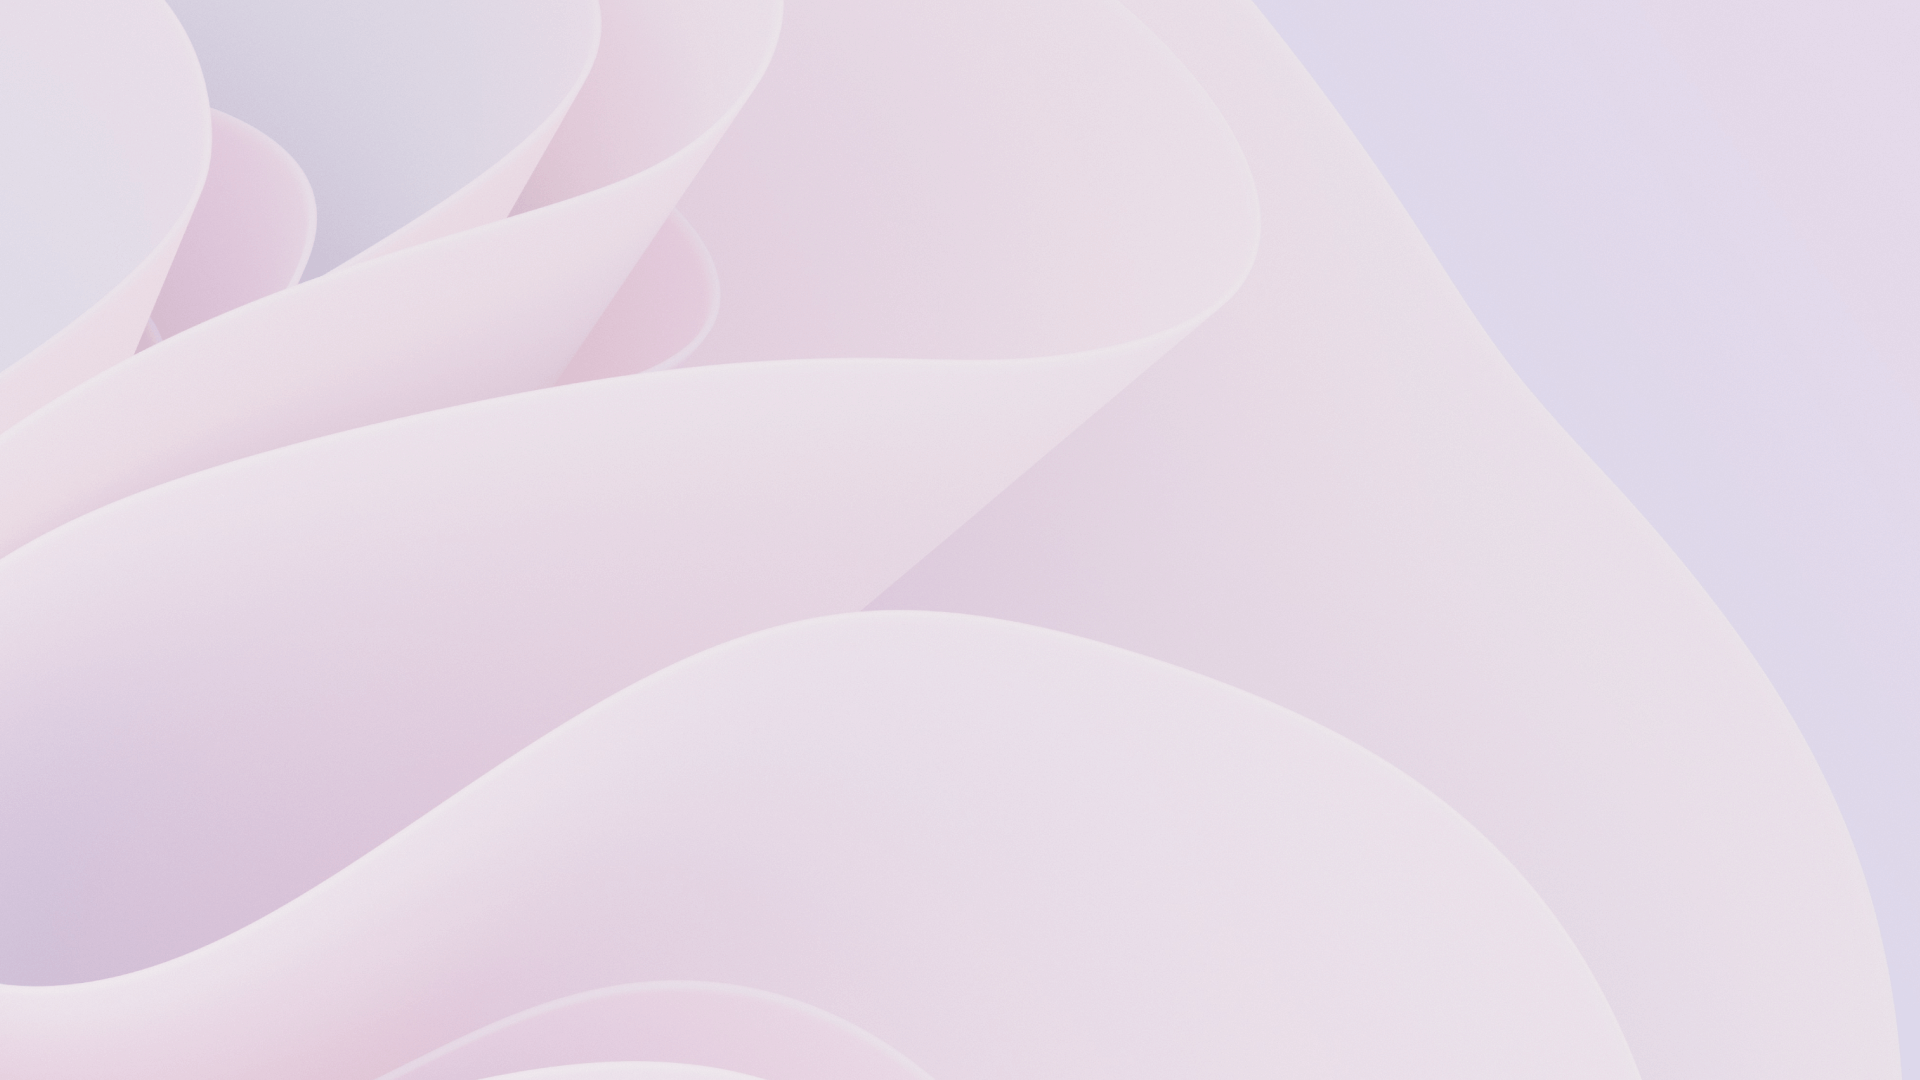
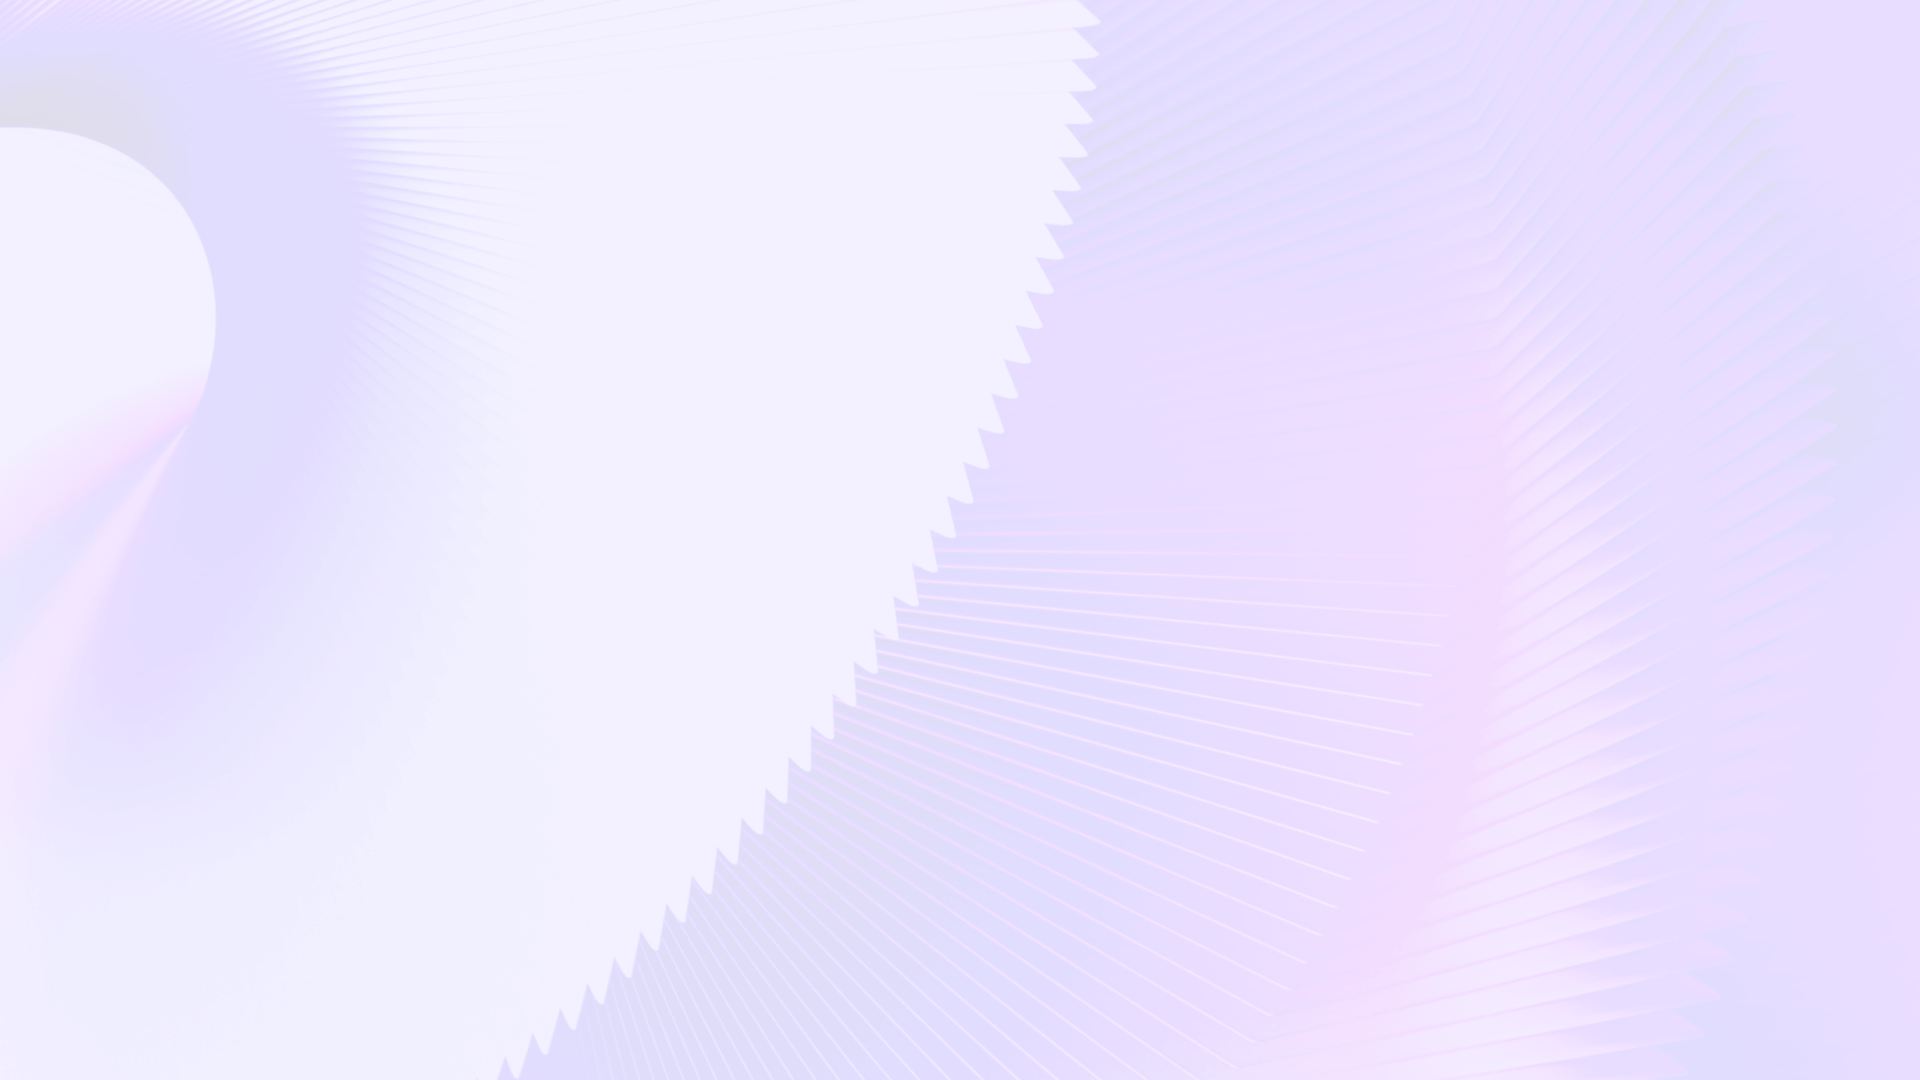
Filters + 3 patterns

diff --git a/patterns.html b/patterns.html
@@ -52,7 +52,14 @@
   </div>
 
   <div class="filter-bar">
-    <p><strong>Layout</strong></p>
+    <div class="filter-set">
+      <p class="large" style="display: inline-block; padding-inline: var(--size-1);">Filter: </p>
+      <button id="filter-author" class="btn-secondary active">Authoring</button>
+      <button id="filter-settings" class="btn-secondary active">Settings</button>
+      <button id="filter-results" class="btn-secondary active">Results</button>
+      <button id="filter-editing" class="btn-secondary active">Editing</button>
+      <button id="filter-agents" class="btn-secondary active">Agents</button>
+    </div>
     <div class="toggle-set">
       <button class="btn-secondary btn-compact">S</button>
       <button class="btn-secondary btn-regular active">M</button>
@@ -61,7 +68,7 @@
   </div>
 
 
-  <div class="patterns-wrapper">
+  <div class="patterns-wrapper show-author show-settings show-results show-editing show-agents">
 
     
 
@@ -157,12 +164,12 @@
 
       <article>
         <div class="content-wrapper">
-        <img src="assets/thumbnail-configure.png">
-        <h4>Configurable Controls</h4>
+        <img src="assets/thumbnail-settingsure.png">
+        <h4>settingsurable Controls</h4>
         <div class="tag-author"></div>
-        <p>Highly abstracted prompt authoring using configured options & controls.</p>
+        <p>Highly abstracted prompt authoring using settingsured options & controls.</p>
         </div>
-        <a href="pattern-configure-controls.html"><button class="btn-secondary">View Pattern <i data-feather="arrow-right"></i></button></a>
+        <a href="pattern-settingsure-controls.html"><button class="btn-secondary">View Pattern <i data-feather="arrow-right"></i></button></a>
       </article>
 
       <article>
@@ -197,10 +204,10 @@
 
       <article>
         <div class="content-wrapper">
-        <img src="assets/thumbnail-placeholder.png">
+        <img src="assets/thumbnail-prompt-placeholders.png">
         <h4>Prompt Placeholder Values</h4>
         <div class="tag-author"></div>
-        <p>?????????.</p>
+        <p>Pre defined content slots or conditions or for prompt values.</p>
         </div>
         <a href="pattern-prompt-placeholders.html"><button class="btn-secondary">View Pattern <i data-feather="arrow-right"></i></button></a>
       </article>
@@ -257,12 +264,12 @@
 
       <article>
         <div class="content-wrapper">
-        <img src="assets/thumbnail-placeholder.png">
+        <img src="assets/thumbnail-result-variations.png">
         <h4>Result Variations</h4>
         <div class="tag-results"></div>
-        <p>?????????.</p>
+        <p>Providing users multiple results for a single prompt.</p>
         </div>
-        <a href="pattern-prompt-placeholders.html"><button class="btn-secondary">View Pattern <i data-feather="arrow-right"></i></button></a>
+        <a href="pattern-result-variations.html"><button class="btn-secondary">View Pattern <i data-feather="arrow-right"></i></button></a>
       </article>
 
       <article>
@@ -287,12 +294,12 @@
 
       <article>
         <div class="content-wrapper">
-        <img src="assets/thumbnail-placeholder.png">
-        <h4>Result Preview Render</h4>
+        <img src="assets/thumbnail-result-rendered-preview.png">
+        <h4>Result Rendered Preview</h4>
         <div class="tag-author"></div>
-        <p>?????????.</p>
+        <p>A live preview of generated content, image or code.</p>
         </div>
-        <a href="pattern-prompt-placeholders.html"><button class="btn-secondary">View Pattern <i data-feather="arrow-right"></i></button></a>
+        <a href="pattern-result-rendered-preview.html"><button class="btn-secondary">View Pattern <i data-feather="arrow-right"></i></button></a>
       </article>
 
       <article class="coming">
@@ -400,6 +407,44 @@
       $(".patterns-wrapper").addClass("large").removeClass("compact");
       });
     });
+
+
+
+    $(document).ready(function (){
+      $("#filter-author").click(function(){
+      $(".patterns-wrapper").toggleClass("show-author");
+      $(this).toggleClass("active");
+      });
+    });
+
+    $(document).ready(function (){
+      $("#filter-settings").click(function(){
+      $(".patterns-wrapper").toggleClass("show-settings");
+      $(this).toggleClass("active");
+      });
+    });
+
+    $(document).ready(function (){
+      $("#filter-results").click(function(){
+      $(".patterns-wrapper").toggleClass("show-results");
+      $(this).toggleClass("active");
+      });
+    });
+
+    $(document).ready(function (){
+      $("#filter-editing").click(function(){
+      $(".patterns-wrapper").toggleClass("show-editing");
+      $(this).toggleClass("active");
+      });
+    });
+
+    $(document).ready(function (){
+      $("#filter-agents").click(function(){
+      $(".patterns-wrapper").toggleClass("show-agents");
+      $(this).toggleClass("active");
+      });
+    });
+
 
 </script>
 

diff --git a/pattern-result-rendered-preview.html b/pattern-result-rendered-preview.html
@@ -6,7 +6,7 @@
   <meta name="keywords" content="HTML,CSS,XML,JavaScript">
   <meta name="author" content="Luke Bennis">
   <meta name="viewport" content="width=device-width, initial-scale=1.0">
-  <title>AI UX Pattern - AI Prompt Placeholder Values</title>
+  <title>AI UX Pattern - AI Result Rendered Preview</title>
 
   <link rel="stylesheet" href="https://cdnjs.cloudflare.com/ajax/libs/normalize/8.0.1/normalize.min.css" integrity="sha512-NhSC1YmyruXifcj/KFRWoC561YpHpc5Jtzgvbuzx5VozKpWvQ+4nXhPdFgmx8xqexRcpAglTj9sIBWINXa8x5w==" crossorigin="anonymous" referrerpolicy="no-referrer" />
  
@@ -24,36 +24,35 @@
   <div id="header"></div>
 
   <div class="iframe-wrapper"><iframe  
-    src="https://embed.figma.com/proto/zZsnp1IG505BXk5qFua0Th/AI-UX-Patterns?page-id=0%3A1&node-id=8072-14585&viewport=-17152%2C2049%2C0.51&scaling=min-zoom&content-scaling=fixed&starting-point-node-id=8072%3A14585&show-proto-sidebar=1&embed-host=share=1&hide-ui=1&scaling=scale-down-width" allowfullscreen>
-    </iframe>
-  </div>
-
-
-
+    src="https://embed.figma.com/proto/zZsnp1IG505BXk5qFua0Th/AI-UX-Patterns?page-id=0%3A1&node-id=7497-14366&viewport=-17152%2C2049%2C0.51&scaling=contain&content-scaling=fixed&starting-point-node-id=7497%3A14366&show-proto-sidebar=1&embed-host=share=1&hide-ui=1&scaling=scale-down-width" allowfullscreen>
+    </iframe></div>
 
 
 
   <div class="content-wrapper">
 
 
-    <div class="tag-author"></div>
-    <h1>Prompt Placeholder Values</h1>
+    <div class="tag-results"></div>
+    <h1>Result Rendered Preview</h1>
 
     <div class="col-3-wrapper">
 
       <div class="col">
         <h5>Overview</h5>
-        <p class="large">Providing prompt placeholders for key values. Similar to prompt templates, this provides simplified inputs for key values inside a much larger & more complex prompt.</p>
+        <p class="large">As AI improved it's ability to generate varied content types, a rendered preview allows user to instantly see not only the initial result but any iterations made as well.</p>
       </div>
 
       <div class="col">
         <h5>User Archetype</h5>
-        <p>This pattern suits a two user workflow where user (A) composes a complex prompt & parametrises key values that affect the output. User (B) Then has a simpler experience filling out these key values only yet submits the full prompt.</p>
+        <p>Likely for more technical users, this pattern is most commonly used for coded results which require a rendering to actually see & review the results accuracy.</p>
+        <p>A general understanding is needed that this is a temporary preview & that some differences may apply when applied eslewhere.</p>
       </div>
 
       <div class="col">
         <h5>Considerations</h5>
-        <p>The overall prompt structure needs to be composed to ensure these variablised inputs can be switched out while keeping the prompt integrity. Also, the individual placeholders can be understood on their own for user (B).
+        <p>Not all file types or result require a preview. Defining what presents in the preview pane is important. A preview is highly effective when relevant but adds friction when it's not required.
+          <br><br>
+        Another consideration is result complexity or length. Having AI generate a single JS function may not require a preview. Perhaps proviging inline options for the preview instead adds user autonomy. 
         </p>
       </div>
 

diff --git a/styles.css b/styles.css
@@ -22,7 +22,7 @@ html
   scroll-behavior: smooth;
   background-color: var(--purple-100);
   background-size: cover;
-  animation: bg-animation 9s ease-in-out 0s infinite alternate both;
+  animation: bg-animation 6s ease-in-out 0s infinite alternate both;
   position: relative;
 }
 
@@ -752,14 +752,14 @@ img.diagram
         div[class*="tag-"]
         {
           position: absolute;
-          top: var(--size-1);
-          left: var(--size-1);
+          top: var(--size-2);
+          left: var(--size-2);
           transition: 1.2s;
         }
 
         div[class*="tag-coming"]
         {
-          right: var(--size-1);
+          right: var(--size-2);
           left: auto;
         }
       
@@ -942,20 +942,21 @@ div[class*="tag-"]
 
 .filter-bar
 {
-  display: none;
+  display: flex;
+  flex-direction: row;
+  align-items: center;
+  justify-content: space-between;
+  gap: var(--size-2);
+  border-bottom: 1px solid var(--grey-op20);
+  padding-bottom: var(--size-2);
+  margin-bottom: var(--size-3);
 }
 
-    @media  screen and (min-width:1200px) {
-      .filter-bar
+
+    @media  screen and (max-width:1200px) {
+      .toggle-set
       {
-        display: flex;
-        flex-direction: row;
-        align-items: center;
-        justify-content: space-between;
-        gap: var(--size-2);
-        border-bottom: 1px solid var(--grey-op20);
-        padding-bottom: var(--size-2);
-        margin-bottom: var(--size-3);
+        display: none;
       }
     }
 
@@ -982,9 +983,15 @@ div[class*="tag-"]
   gap: var(--size-4);
 }
 
+        .patterns-wrapper.compact article
+        {
+          padding: var(--size-2);
+        }
+
         .patterns-wrapper.compact article button
         {
           border: none;
+          border-radius: 0;
           background: none;
           box-shadow: none;
           padding: 0;
@@ -993,6 +1000,8 @@ div[class*="tag-"]
         .patterns-wrapper.compact article button svg
         {
           stroke: currentColor;
+          width: var(--size-2);
+          height: var(--size-2);
         }
 
         .patterns-wrapper.compact article p
@@ -1011,6 +1020,59 @@ div[class*="tag-"]
 {
   grid-template-columns: repeat(3, 1fr);
 }
+
+
+
+
+
+/* Pattern Filters ------------------------------ */
+
+.patterns-wrapper
+{
+  min-height: 30rem;
+}
+
+.patterns-wrapper article
+{
+  display: none;
+}
+
+.patterns-wrapper.show-author article:has(.tag-author),
+.patterns-wrapper.show-settings article:has(.tag-settings),
+.patterns-wrapper.show-results article:has(.tag-results),
+.patterns-wrapper.show-editing article:has(.tag-editing),
+.patterns-wrapper.show-agents article:has(.tag-agent)
+{
+  display: block;
+}
+
+.filter-set button:hover
+{
+  background: var(--white);
+}
+
+
+.filter-set button.active
+{
+  border-color: var(--purple-300);
+  padding-inline: var(--size-3);
+}
+
+        @media screen and (max-width: 1200px){
+          .filter-set button
+          {
+            margin: 0px 6px 6px 0px;
+          }
+        }
+
+        @media screen and (max-width: 900px){
+          .filter-set
+          {
+            text-align: center;
+            width: 100%;
+          }
+        }
+
 
 
 /* Pattern Page ------------------------------ */

diff --git a/ds-primitives.css b/ds-primitives.css
@@ -29,7 +29,7 @@ hr
   
   --size-base: 0.8rem;
   --text-base: 1.6rem; /* base text size */
-  --text-ratio: 1.2; /*ratio - heading to base*/
+  --text-ratio: 1.18; /*ratio - heading to base*/
   --line-height-base: 1.4; 
   --space-after-base: 1.33ch;
   
